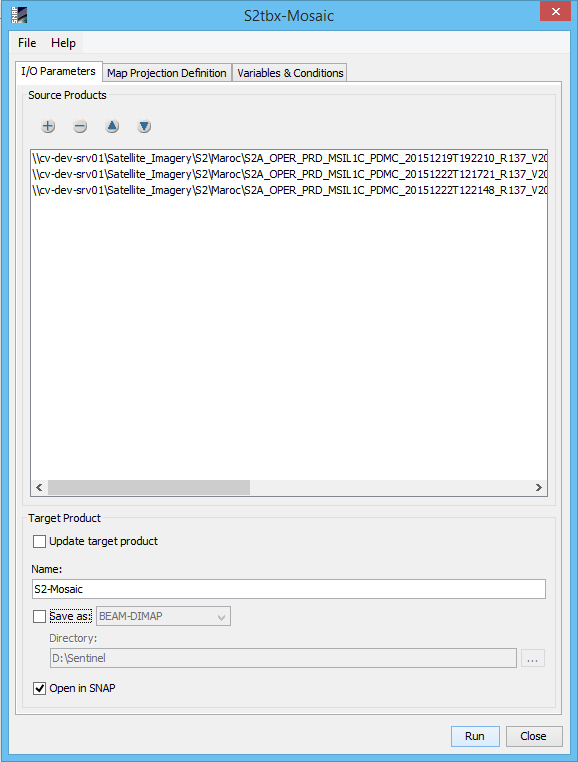
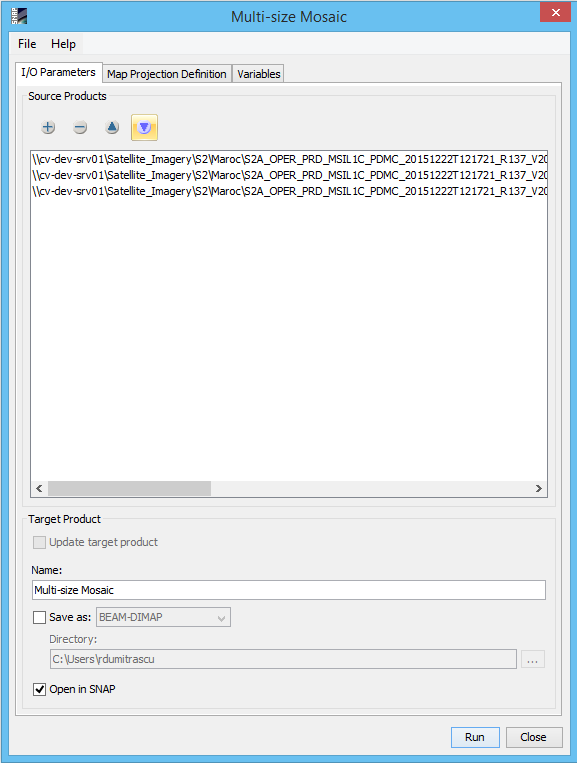
Minor modifications to Sentinel-2 Mosaic modules

diff --git a/s2tbx-mosaic-ui/src/main/resources/org/esa/s2tbx/dataio/mosaic/ui/docs/mosaic/Multi-size Mosaic.html b/s2tbx-mosaic-ui/src/main/resources/org/esa/s2tbx/dataio/mosaic/ui/docs/mosaic/Multi-size Mosaic.html
@@ -16,7 +16,7 @@
 
 <html>
 <head>
-    <title>Sentinel Toolbox Help - Mosaic</title>
+    <title>Sentinel Toolbox Help - Multi-size Mosaic</title>
     <meta http-equiv="Content-Type" content="text/html; charset=iso-8859-1">
     <link rel="stylesheet" href="../style.css">
 </head>
@@ -24,15 +24,15 @@
 <body>
 <table class="header">
     <tr class="header">
-        <td class="header">&nbsp;Sentinel-2 Mosaic</td>
+        <td class="header">&nbsp;Multi-size Mosaic</td>
         <td class="header" align="right">
             <a href="../general/overview/SnapOverview.html">             <img src="images/snap_header.jpg" border="0"/></a>
         </td>
     </tr>
 </table>
 
-<h3>Sentinel-2 Mosaic Dialog</h3>
-<b>Note</b> The Sentinel-2 Mosaic operator is called when at least one of the input products is multisize, otherwise the original mosaic operator is called. This is fully operational
+<h3>Multi-size Mosaic Dialog</h3>
+<b>Note</b> The Multi-size Mosaic operator is called when at least one of the input products is multisize, otherwise the original mosaic operator is called. This is fully operational
 for single granule Sentinel-2 products. In case of old products (multi granule) localisation issues may appear.
 <h4>I/O Parameters</h4>
 <table border="0">

diff --git a/s2tbx-mosaic-ui/src/main/resources/org/esa/s2tbx/dataio/mosaic/ui/docs/mosaic/GETASSE30ElevationModel.html b/s2tbx-mosaic-ui/src/main/resources/org/esa/s2tbx/dataio/mosaic/ui/docs/mosaic/GETASSE30ElevationModel.html
@@ -23,7 +23,7 @@
 <body>
 <table class="header">
     <tr class="header">
-        <td class="header">&nbsp;S2-Mosaic</td>
+        <td class="header">&nbsp;Multi-size Mosaic</td>
         <td class="header" align="right">
             <a href="../general/overview/SnapOverview.html">             <img src="images/snap_header.jpg" border="0"/></a>
         </td>

diff --git a/s2tbx-mosaic-ui/src/main/resources/org/esa/s2tbx/dataio/mosaic/ui/docs/mosaic/ImportGETASSE30.html b/s2tbx-mosaic-ui/src/main/resources/org/esa/s2tbx/dataio/mosaic/ui/docs/mosaic/ImportGETASSE30.html
@@ -23,7 +23,7 @@
 <body>
 <table class="header">
     <tr class="header">
-        <td class="header">&nbsp;S2-Mosaic</td>
+        <td class="header">&nbsp;Multi-size Mosaic</td>
         <td class="header" align="right">
             <a href="../general/overview/SnapOverview.html">             <img src="images/snap_header.jpg" border="0"/></a>
         </td>

diff --git a/s2tbx-mosaic-ui/src/main/resources/org/esa/s2tbx/dataio/mosaic/ui/docs/mosaic/OrthorectificationAlgo.html b/s2tbx-mosaic-ui/src/main/resources/org/esa/s2tbx/dataio/mosaic/ui/docs/mosaic/OrthorectificationAlgo.html
@@ -23,7 +23,7 @@
 <body>
 <table class="header">
     <tr class="header">
-        <td class="header">&nbsp;S2-Mosaic</td>
+        <td class="header">&nbsp;Multi-size Mosaic</td>
         <td class="header" align="right">
             <a href="../general/overview/SnapOverview.html">             <img src="images/snap_header.jpg" border="0"/></a>
         </td>

diff --git a/s2tbx-mosaic-ui/src/main/resources/org/esa/s2tbx/dataio/mosaic/ui/docs/mosaic/SelectCrsDialog.html b/s2tbx-mosaic-ui/src/main/resources/org/esa/s2tbx/dataio/mosaic/ui/docs/mosaic/SelectCrsDialog.html
@@ -24,7 +24,7 @@
 <body>
 <table class="header">
     <tr class="header">
-        <td class="header">&nbsp;S2-Mosaic</td>
+        <td class="header">&nbsp;Multi-size Mosaic</td>
         <td class="header" align="right">
             <a href="../general/overview/SnapOverview.html">             <img src="images/snap_header.jpg" border="0"/></a>
         </td>

diff --git a/s2tbx-mosaic/src/main/java/org/esa/s2tbx/dataio/mosaic/S2tbxMosaicOp.java b/s2tbx-mosaic/src/main/java/org/esa/s2tbx/dataio/mosaic/S2tbxMosaicOp.java
@@ -63,12 +63,12 @@ import java.util.OptionalDouble;
  * @author Razvan Dumitrascu
  * @since 5.0.6
  */
-@OperatorMetadata(alias = "S2tbx-Mosaic",
+@OperatorMetadata(alias = "Multi-size Mosaic",
         category = "Raster/Geometric",
         version = "1.0",
         authors = "Razvan Dumitrascu",
         copyright = "(c) 2017 by CS Romania",
-        description = "Creates a Sentinel2 mosaic out of a set of source products.",
+        description = "Creates a multi-size mosaic out of a set of source products.",
         internal = false)
 
 public final class S2tbxMosaicOp extends Operator {
@@ -426,7 +426,7 @@ public final class S2tbxMosaicOp extends Operator {
                     targetEnvelope.getLowerCorner().getOrdinate(0),
                     targetEnvelope.getUpperCorner().getOrdinate(1),
                     this.pixelSizeX, this.pixelSizeY);
-            final Product product = new Product("S2mosaic", "BEAM_MOSAIC", width, height);
+            final Product product = new Product("Multi-size Mosaic", "BEAM_MOSAIC", width, height);
             product.setSceneGeoCoding(geoCoding);
             final Dimension tileSize = JAIUtils.computePreferredTileSize(width, height, 1);
             product.setPreferredTileSize(tileSize);
@@ -629,7 +629,7 @@ public final class S2tbxMosaicOp extends Operator {
         if (graphElement == null) {
             throw new OperatorException("Product has no metadata element named 'Processing_Graph'");
         }
-        final String operatorAlias = "S2tbx-Mosaic";
+        final String operatorAlias = "Multi-size Mosaic";
         final Map<String, Object> parameters = new HashMap<>();
         boolean operatorFound = false;
         for (MetadataElement nodeElement : graphElement.getElements()) {

diff --git a/s2tbx-mosaic-ui/src/main/java/org/esa/s2tbx/dataio/mosaic/ui/S2tbxMosaicAction.java b/s2tbx-mosaic-ui/src/main/java/org/esa/s2tbx/dataio/mosaic/ui/S2tbxMosaicAction.java
@@ -32,14 +32,14 @@ import java.awt.event.ActionEvent;
  * @author Razvan Dumitrascu
  * @since 5.0.6
  */
-@ActionID(category = "Operators", id = "org.esa.s2tbx.dataio.mosaic.ui.S2tbxMosaicAction")
+@ActionID(category = "Operators", id = "org.esa.s2tbx.dataio.mosaic.ui.MultisizeMosaicAction")
 @ActionRegistration(displayName = "#CTL_S2MosaicAction_Name")
 @ActionReference(path = "Menu/Raster/Geometric Operations", position = 351)
-@NbBundle.Messages({"CTL_S2MosaicAction_Name=Sentinel-2-Mosaic"})
+@NbBundle.Messages({"CTL_S2MosaicAction_Name=Multi-size Mosaic"})
 public class S2tbxMosaicAction extends AbstractSnapAction {
 
     public S2tbxMosaicAction(){
-        putValue(SHORT_DESCRIPTION, "Generates Mosaic Image for Sentinel2 Products.");
+        putValue(SHORT_DESCRIPTION, "Generates Mosaic Image for Multi-size Products.");
     }
     private ModelessDialog dialog;
 
@@ -47,7 +47,7 @@ public class S2tbxMosaicAction extends AbstractSnapAction {
     public void actionPerformed(ActionEvent e) {
         if (dialog == null) {
             dialog = new S2tbxMosaicDialog(Bundle.CTL_S2MosaicAction_Name(),
-                                      "Sentinel2MosaicAction", getAppContext());
+                                      "MultisizeMosaicAction", getAppContext());
 
         }
         dialog.show();
@@ -55,6 +55,6 @@ public class S2tbxMosaicAction extends AbstractSnapAction {
 
     @Override
     public boolean isEnabled() {
-        return GPF.getDefaultInstance().getOperatorSpiRegistry().getOperatorSpi("S2tbx-Mosaic") != null;
+        return GPF.getDefaultInstance().getOperatorSpiRegistry().getOperatorSpi("Multi-size Mosaic") != null;
     }
 }

diff --git a/s2tbx-mosaic-ui/src/main/java/org/esa/s2tbx/dataio/mosaic/ui/S2tbxMosaicDialog.java b/s2tbx-mosaic-ui/src/main/java/org/esa/s2tbx/dataio/mosaic/ui/S2tbxMosaicDialog.java
@@ -47,11 +47,11 @@ class S2tbxMosaicDialog extends SingleTargetProductDialog {
         super(appContext, title, ID_APPLY_CLOSE, helpID);
         final TargetProductSelector selector = getTargetProductSelector();
         selector.getModel().setSaveToFileSelected(false);
-        selector.getModel().setProductName("S2-Mosaic");
+        selector.getModel().setProductName("Multi-size Mosaic");
         selector.getSaveToFileCheckBox().setEnabled(true);
         form = new S2tbxMosaicForm(selector, appContext);
 
-        final OperatorSpi operatorSpi = GPF.getDefaultInstance().getOperatorSpiRegistry().getOperatorSpi("S2tbx-Mosaic");
+        final OperatorSpi operatorSpi = GPF.getDefaultInstance().getOperatorSpiRegistry().getOperatorSpi("Multi-size Mosaic");
 
         S2tbxMosaicFormModel formModel = form.getFormModel();
         OperatorParameterSupport parameterSupport = new OperatorParameterSupport(operatorSpi.getOperatorDescriptor(),
@@ -110,7 +110,7 @@ class S2tbxMosaicDialog extends SingleTargetProductDialog {
         if(!multiSize){
             return GPF.createProduct("Mosaic", parameterMap, formModel.getSourceProductMap());
         }
-        return GPF.createProduct("S2tbx-Mosaic", parameterMap, formModel.getSourceProductMap());
+        return GPF.createProduct("Multi-size Mosaic", parameterMap, formModel.getSourceProductMap());
     }
 
     @Override

diff --git a/s2tbx-mosaic-ui/src/main/java/org/esa/s2tbx/dataio/mosaic/ui/S2tbxMosaicFormModel.java b/s2tbx-mosaic-ui/src/main/java/org/esa/s2tbx/dataio/mosaic/ui/S2tbxMosaicFormModel.java
@@ -82,7 +82,7 @@ class S2tbxMosaicFormModel {
     S2tbxMosaicFormModel(S2tbxMosaicForm parentForm) {
         this.parentForm = parentForm;
 
-        container = ParameterDescriptorFactory.createMapBackedOperatorPropertyContainer("S2tbx-Mosaic", parameterMap);
+        container = ParameterDescriptorFactory.createMapBackedOperatorPropertyContainer("Multi-size Mosaic", parameterMap);
         addTransientProperty(PROPERTY_UPDATE_PRODUCT, Product.class);
         addTransientProperty(PROPERTY_UPDATE_MODE, Boolean.class);
         addTransientProperty(PROPERTY_SHOW_SOURCE_PRODUCTS, Boolean.class);
@@ -292,7 +292,7 @@ class S2tbxMosaicFormModel {
             final int w = MathUtils.floorInt(mapEnvelope.getSpan(0) / pixelSizeX);
             final int h = MathUtils.floorInt(mapEnvelope.getSpan(1) / pixelSizeY);
 
-            final Product product = new Product("S2mosaic", "MosaicBounds", w, h);
+            final Product product = new Product("Multi-seize Mosaic", "MosaicBounds", w, h);
             final GeoCoding geoCoding = new CrsGeoCoding(mapCRS,
                                                          w, h,
                                                          mapEnvelope.getMinimum(0),

diff --git a/s2tbx-mosaic-ui/src/main/java/org/esa/s2tbx/dataio/mosaic/ui/S2tbxMosaicIOPanel.java b/s2tbx-mosaic-ui/src/main/java/org/esa/s2tbx/dataio/mosaic/ui/S2tbxMosaicIOPanel.java
@@ -82,7 +82,7 @@ class S2tbxMosaicIOPanel extends JPanel {
             @Override
             protected JFileChooser createFileChooserDialog() {
                 final JFileChooser fileChooser = super.createFileChooserDialog();
-                fileChooser.setDialogTitle("S2-Mosaic - Open Source Product(s)");
+                fileChooser.setDialogTitle("Multi-size Mosaic - Open Source Product(s)");
                 return fileChooser;
             }
         };
@@ -379,7 +379,7 @@ class S2tbxMosaicIOPanel extends JPanel {
                 selectorModel.setProductDir(fileDir);
             } else {
                 selectorModel.setFormatName(ProductIO.DEFAULT_FORMAT_NAME);
-                selectorModel.setProductName("S2-Mosaic");
+                selectorModel.setProductName("Multi-size Mosaic");
                 String homeDirPath = SystemUtils.getUserHomeDir().getPath();
                 final PropertyMap prefs = appContext.getPreferences();
                 String saveDir = prefs.getPropertyString(SaveProductAsAction.PREFERENCES_KEY_LAST_PRODUCT_DIR, homeDirPath);

diff --git a/s2tbx-mosaic-ui/src/test/java/org/esa/s2tbx/dataio/mosaic/ui/VariablesTableAdapterTest.java b/s2tbx-mosaic-ui/src/test/java/org/esa/s2tbx/dataio/mosaic/ui/VariablesTableAdapterTest.java
@@ -41,7 +41,7 @@ public class VariablesTableAdapterTest {
 
     @Before
     public void before() {
-        final PropertyContainer pc = ParameterDescriptorFactory.createMapBackedOperatorPropertyContainer("S2tbx-Mosaic");
+        final PropertyContainer pc = ParameterDescriptorFactory.createMapBackedOperatorPropertyContainer("Multisize-Mosaic");
         bindingContext = new BindingContext(pc);
     }
 
